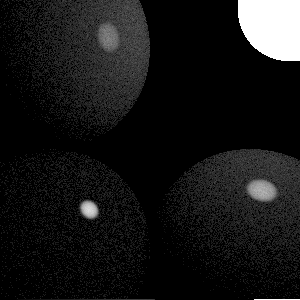
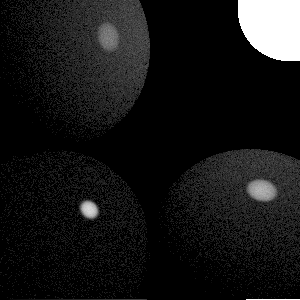
task07 finish

diff --git a/task07/main.cpp b/task07/main.cpp
@@ -417,7 +417,7 @@ int main() {
         float hit1_rad = spheres[hit1_object].emission;
         float hit0_pdf_light_sample = pdf_light_sample(hit0_normal, hit0_pos, cam_ray_dir, hit0_refl, hit0_object);
         float hit0_pdf_brdf_sample = spheres[hit0_object].pdf(hit0_normal, cam_ray_dir, hit0_refl);
-        float w2=hit0_pdf_brdf_sample/(hit0_pdf_brdf_sample+hit0_pdf_light_sample);
+        float w2=hit0_pdf_light_sample/(hit0_pdf_brdf_sample+hit0_pdf_light_sample);
         float rad=w2*hit0_brdf*(hit1_rad*(hit1_normal.dot((hit0_pos-hit1_pos).normalized()))*hit0_refl.dot(hit0_normal)/(nsample*hit0_pdf_light_sample));
         img_mis[ih * img_width + iw] += rad;
       }
